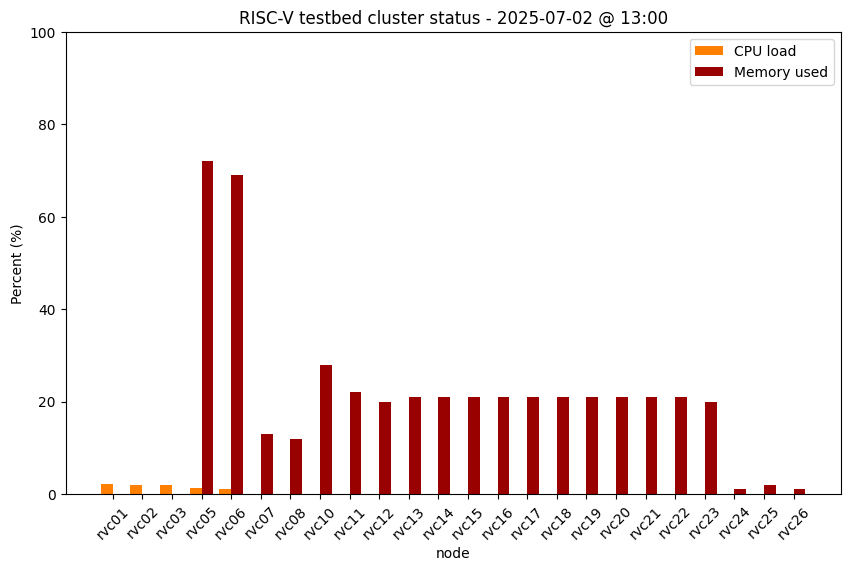
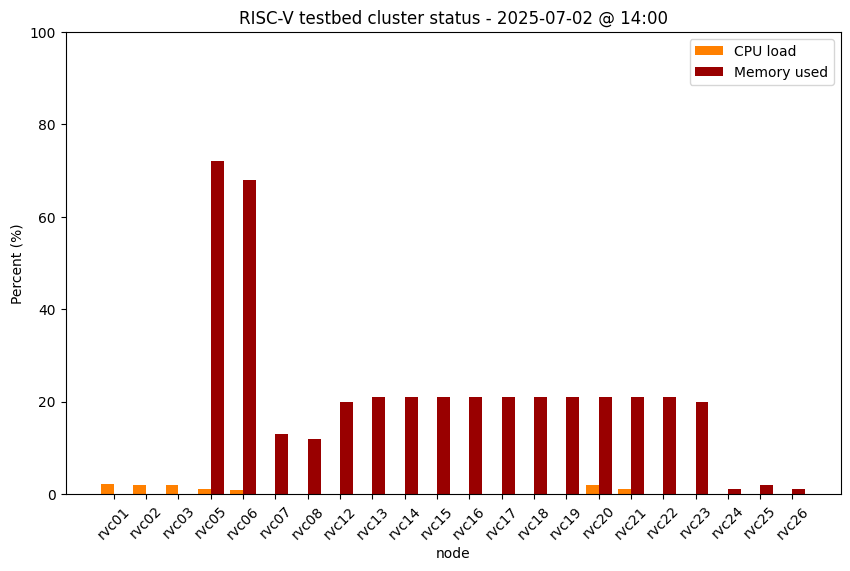
Update cluster status

Changed region(s): [[0.1224, 0.268, 0.9482, 0.9527], [0.7341, 0.0, 0.7647, 0.0595], [0.8871, 0.8336, 0.9176, 0.8634]]

diff --git a/status.md b/status.md
@@ -22,8 +22,8 @@ permalink: /status/
 | StarFive VisionFive V1 #1 | rvc07 | 2 | 8GB | <img src="/images/on.png" alt="green light" width="10"/> up |
 | StarFive VisionFive V1 #2 | rvc08 | 2 | 8GB | <img src="/images/on.png" alt="green light" width="10"/> up |
 | StarFive VisionFive V1 #3 | rvc09 | 2 | 8GB | <img src="/images/amber.png" alt="amber light" width="10"/> offline |
-| HiFive Unmatched  | rvc10 | 4 | 16GB | <img src="/images/on.png" alt="green light" width="10"/> up |
-| StarFive VisionFive V2 #1 | rvc11 | 4 | 8GB | <img src="/images/on.png" alt="green light" width="10"/> up |
+| HiFive Unmatched  | rvc10 | 4 | 16GB | <img src="/images/off.png" alt="red light" width="10"/> down |
+| StarFive VisionFive V2 #1 | rvc11 | 4 | 8GB | <img src="/images/off.png" alt="red light" width="10"/> down |
 | StarFive VisionFive V2 #2 | rvc12 | 4 | 8GB | <img src="/images/on.png" alt="green light" width="10"/> up |
 | StarFive VisionFive V2 #3 | rvc13 | 4 | 8GB | <img src="/images/on.png" alt="green light" width="10"/> up |
 | StarFive VisionFive V2 #4 | rvc14| 4 | 8GB | <img src="/images/on.png" alt="green light" width="10"/> up |
